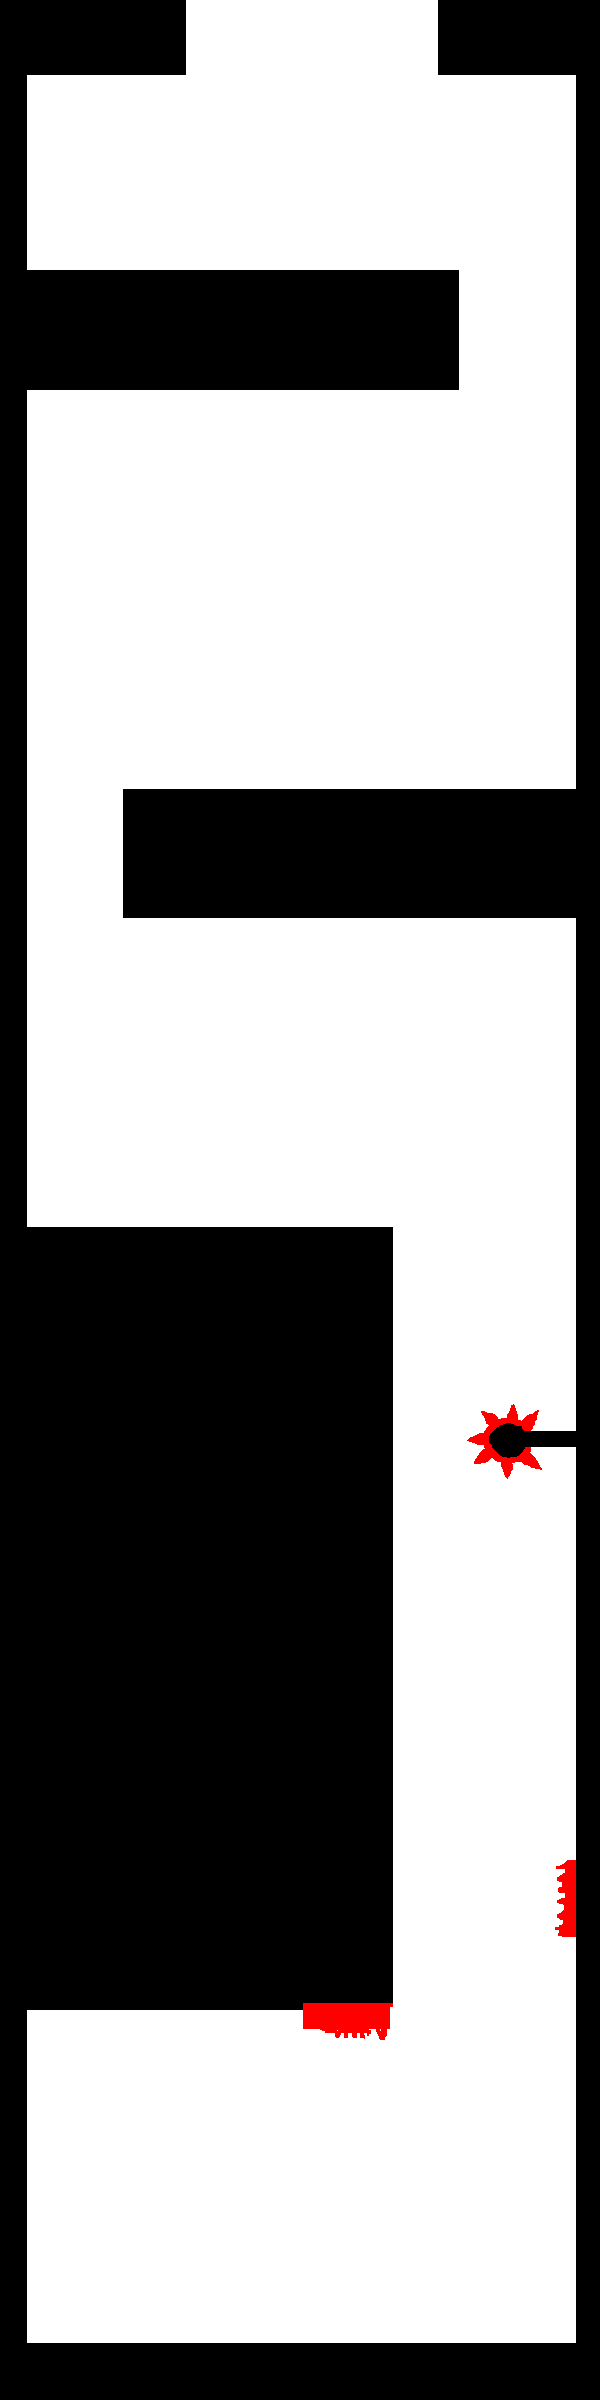
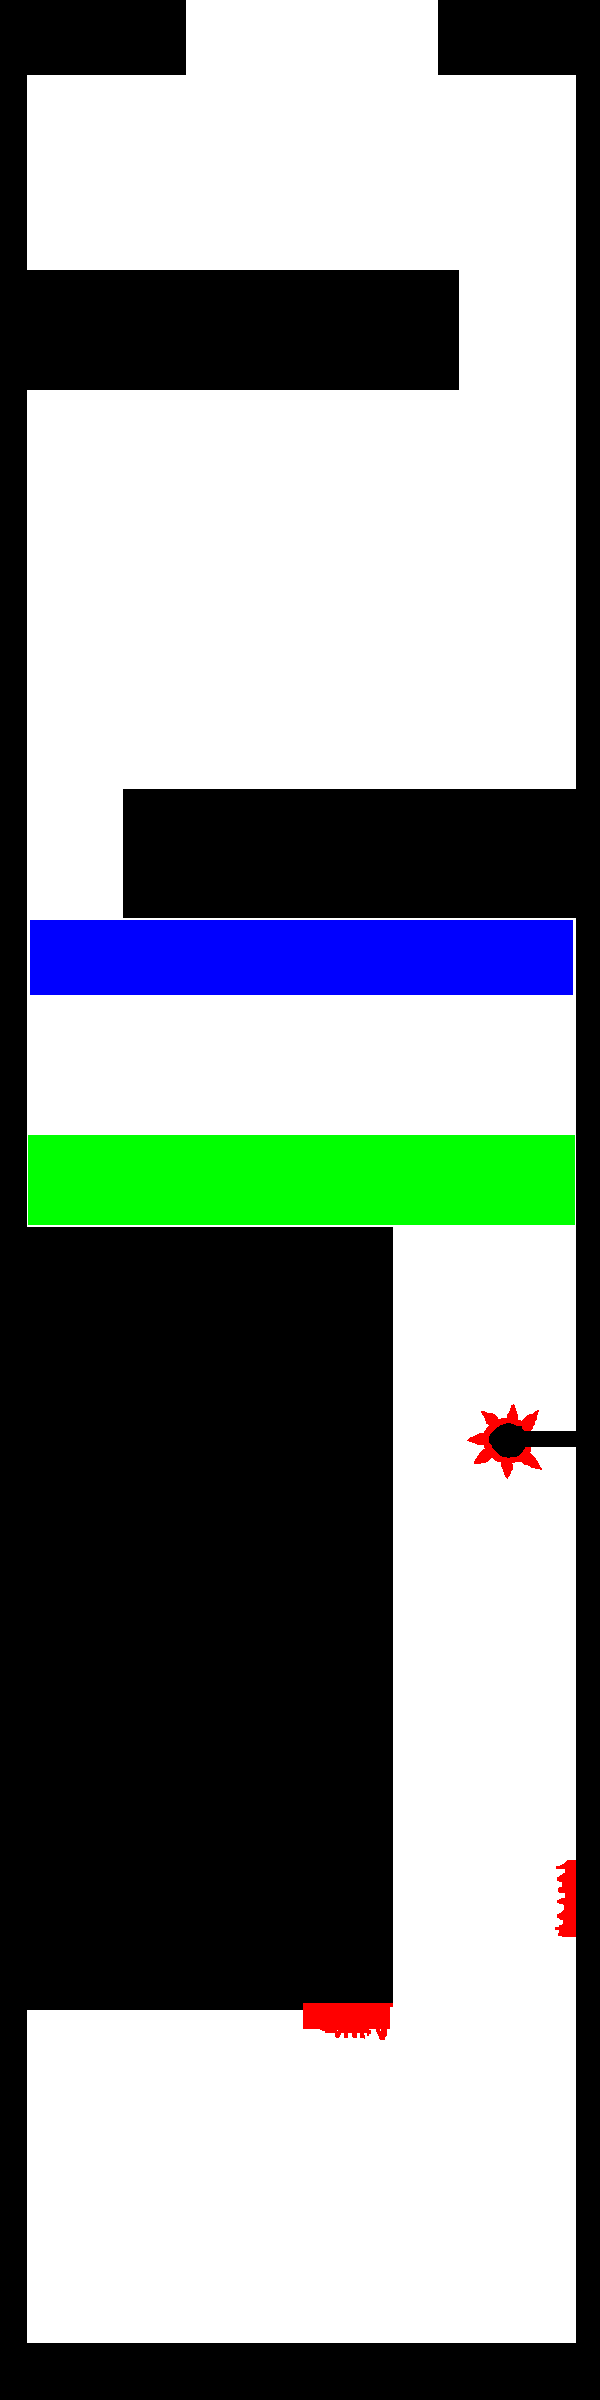
bump free balloon lifetime to 60 seconds (maybe this should be configurable per-level).
add colours for left and right blowing wind to level description, level
background, and level loader.  doesn't do anything yet.

add a collection delay to balloons (defaults to no delay).  this can be used
to stop balloons being collected instantly.

change balloon dropping to drop directly from the player rather than off to
the side.  avoids problems with balloons dropping into the scenery, also
looks nicer.  set a short collection delay on dropped balloons.

Changed region(s): [[0.03, 0.4688, 0.96, 0.5312], [0.03, 0.375, 0.96, 0.4375]]

diff --git a/lib/sprite.py b/lib/sprite.py
@@ -167,10 +167,14 @@ class Balloon(Sprite):
         self.top_speed   = euclid.Vector2(100.0, 100.0)
         self.pop_timer   = 0.0
         self.popped      = False
-        self.lifetime    = 5
+        self.lifetime    = 60
+        self.collect_delay = -1
 
     def can_collect(self):
-        return not (self.dead or self.popped)
+        return not (self.collect_delay > 0 or self.dead or self.popped)
+
+    def set_collect_delay(self, delay):
+        self.collect_delay = delay
 
     def move(self, elapsed_time):
         if self.popped:
@@ -182,6 +186,7 @@ class Balloon(Sprite):
                 self.animate(elapsed_time * 20.0)
         else:
             self.lifetime -= elapsed_time
+            self.collect_delay -= elapsed_time
             if self.lifetime <= 0 and not self.popped:
                 self.pop()
             Sprite.move(self, elapsed_time)

diff --git a/lib/player.py b/lib/player.py
@@ -145,10 +145,7 @@ class Player(Sprite):
     def drop_balloon(self):
         if self.balloon_count > 0:
             new = self._release_balloon()
-            if self.last_dir == 'r':
-                new.position[0] -= self.get_rect().width
-            else:
-                 new.position[0] += self.get_rect().width
+            new.set_collect_delay(5)
 
     def add_balloon(self):
         if self.balloon_count >= len(self.balloon_bunch):

diff --git a/lib/level.py b/lib/level.py
@@ -72,6 +72,9 @@ class Level(object):
         self.spike = hex_val(kv["spike"])
         self.spawn = coord_val(kv["player"])
 
+        self.wind_left = hex_val(kv["wind_left"])
+        self.wind_right = hex_val(kv["wind_right"])
+
     def __str__(self):
         return "[Level \"%s\": 0x%06x/0x%06x (%d, %d)]" % (
             self.name, self.solid, self.background,
